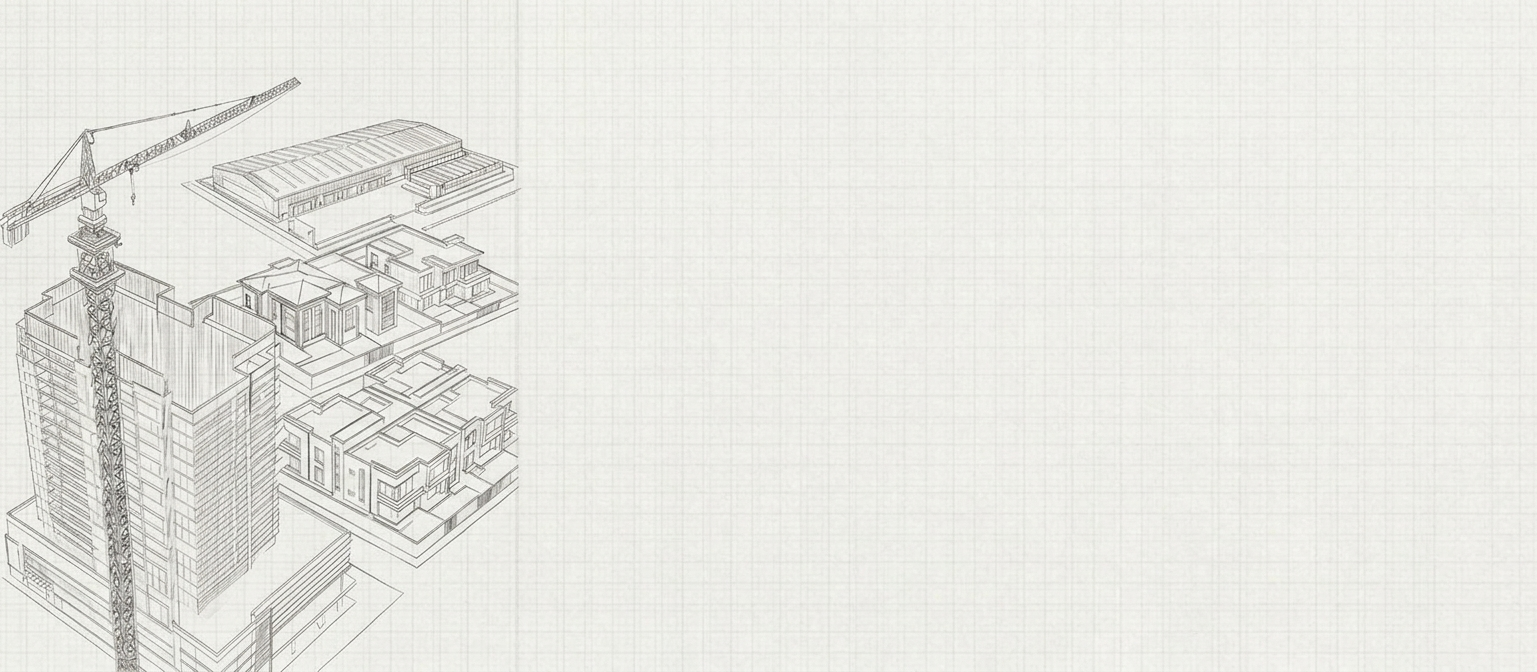
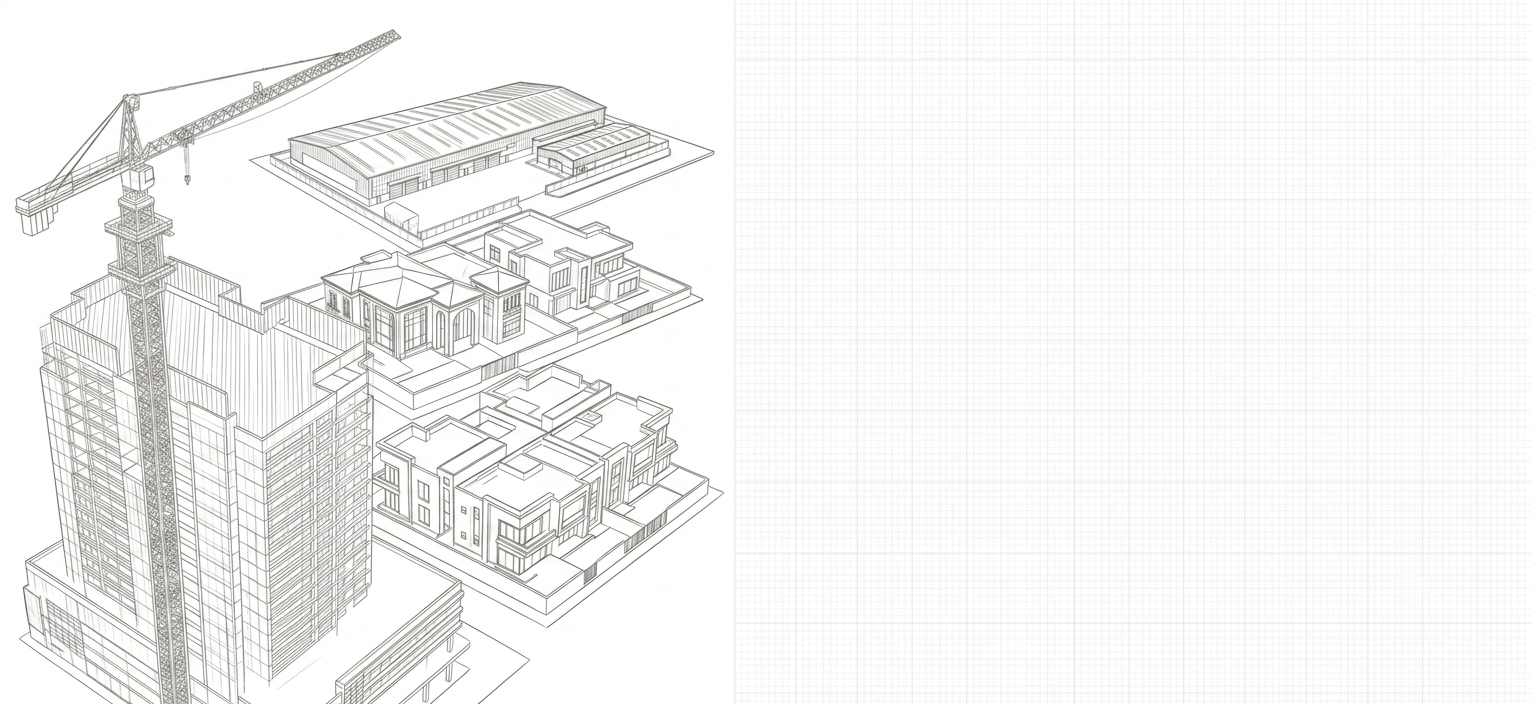
Fixed Cinqo-contracting image and text.

diff --git a/components/sections/Businesses/Intro.tsx b/components/sections/Businesses/Intro.tsx
@@ -35,7 +35,7 @@ export default function Intro({ business }: { business: BusinessData }) {
           )}
           {/* Text */}
           <div className="flex items-start justify-end">
-            <p className={`text-[1.375rem] text-black/80 leading-relaxed font-light max-w-2xl whitespace-pre-line -translate-y-16 ${business.slug === "thc-facilities-management" || business.slug === "cinqo-fitout" ? "-translate-x-4" : business.slug === "cinqo-trading" ? "translate-x-0" : "-translate-x-8"}`}>
+            <p className={`text-[1.375rem] text-black/80 leading-relaxed font-light max-w-2xl whitespace-pre-line -translate-y-16 ${business.slug === "thc-facilities-management" || business.slug === "cinqo-fitout" ? "-translate-x-4" : business.slug === "cinqo-trading" ? "translate-x-0" : business.slug === "cinqo-contracting" ? "-translate-x-4" : "-translate-x-8"}`}>
               {business.introText}
             </p>
           </div>